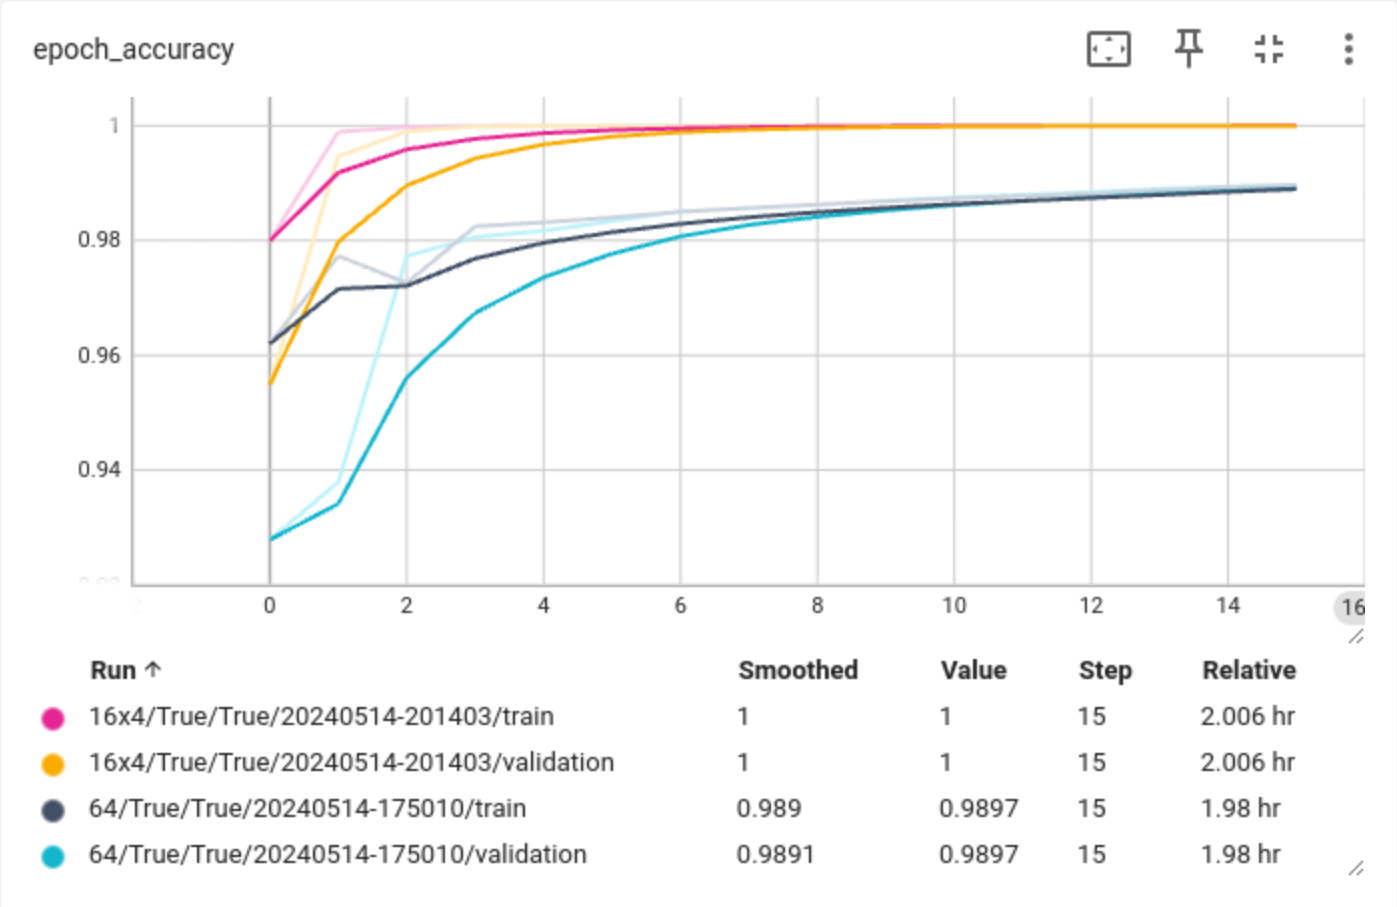
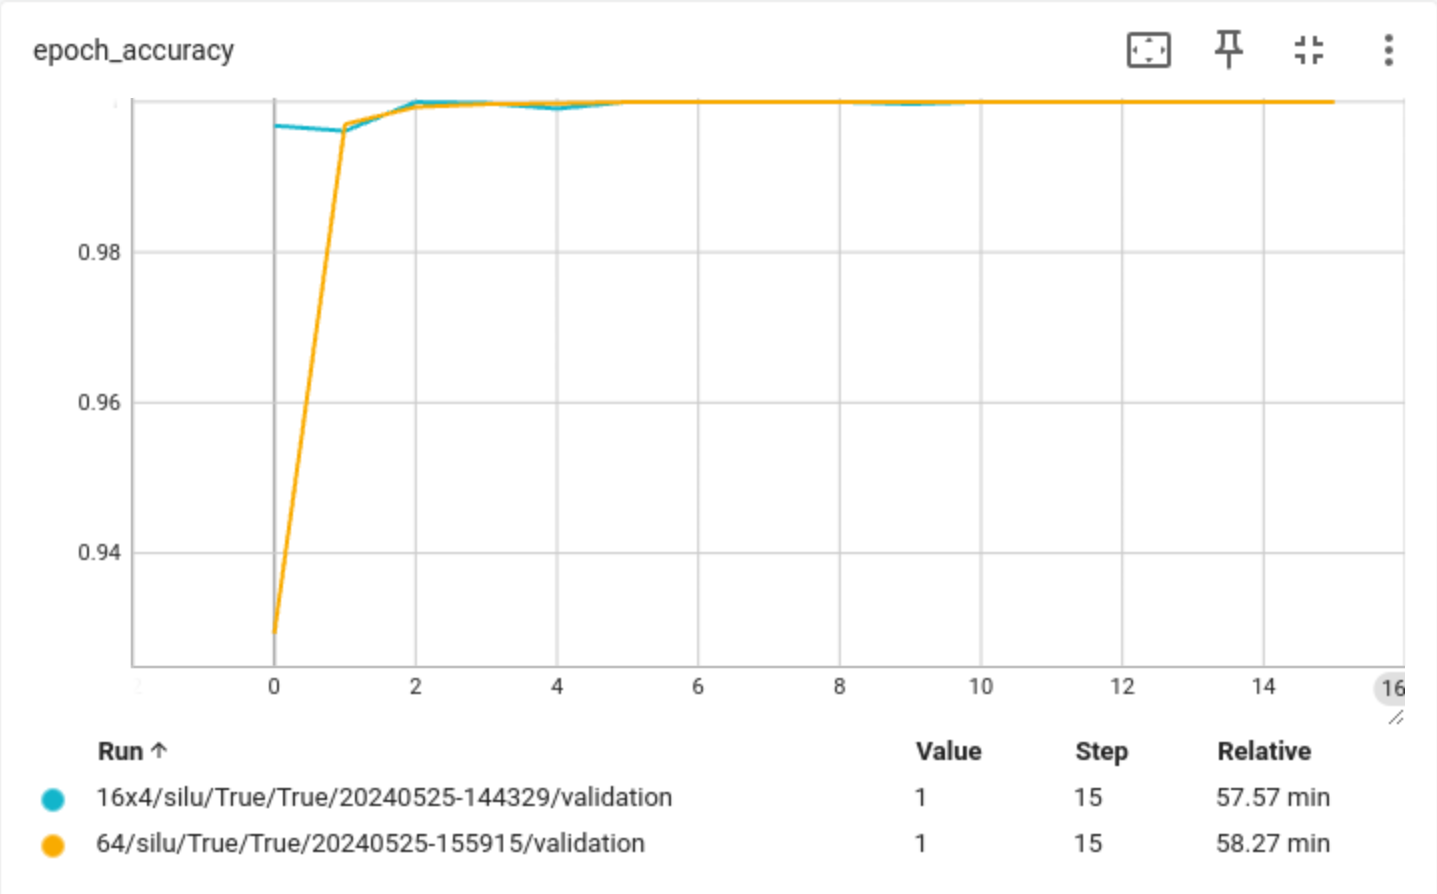
Use graph for the training on random data
Former-commit-id: b72c4f4495d18f24a90af3f85413d12b8e6f1890

diff --git a/articles/tokun.16.md b/articles/tokun.16.md
@@ -237,7 +237,9 @@ For this model to be relevant, it has to be perfectly accurate so that embedding
 All the configurations reach 100% accuracy on the MLQA validation dataset.
 
 However, the goal is to have `tokun` be able to encode any arbitrary 16-gram (token) of codepoints.
-On the random dataset, the `4x4x4` configuration is stuck at 75% accuracy.
+On the random dataset, the `4x4x4` configuration is stuck at 75% accuracy:
+
+![][image-graph-accuracy-4x4x4]
 
 However model configurations with larger weight tensors like `4x16` achieve 99.999% accuracy on the whole Unicode space (and 100% on MLQA).
 
@@ -619,9 +621,10 @@ def random_dataset(size: int, sample_size: int, lower_plane: int=0, upper_plane:
 [article-github-tokun-1]: https://github.com/apehex/tokun/blob/main/articles/tokun.1.md
 [article-github-tokun-4]: https://github.com/apehex/tokun/blob/main/articles/tokun.4.md
 
-[image-graph-accuracy-layers]: .images/16/graph.accuracy.layers.png
-[image-graph-accuracy-16x4-64]: .images/16/graph.accuracy.16x4-vs-64.png
+[image-graph-accuracy-4x4x4]: .images/16/graph.accuracy.4x4x4.png
 [image-graph-accuracy-4x4x4-4x16]: .images/16/graph.accuracy.4x16-vs-4x4x4.png
+[image-graph-accuracy-16x4-64]: .images/16/graph.accuracy.16x4-vs-64.png
+[image-graph-accuracy-layers]: .images/16/graph.accuracy.layers.png
 [image-pca-neighbors]: .images/16/pca.neighbors.png
 [image-pca-neighbors-zoom]: .images/16/pca.neighbors.zoom.png
 [image-16-umap-german]: .images/16/umap.16.german.png
